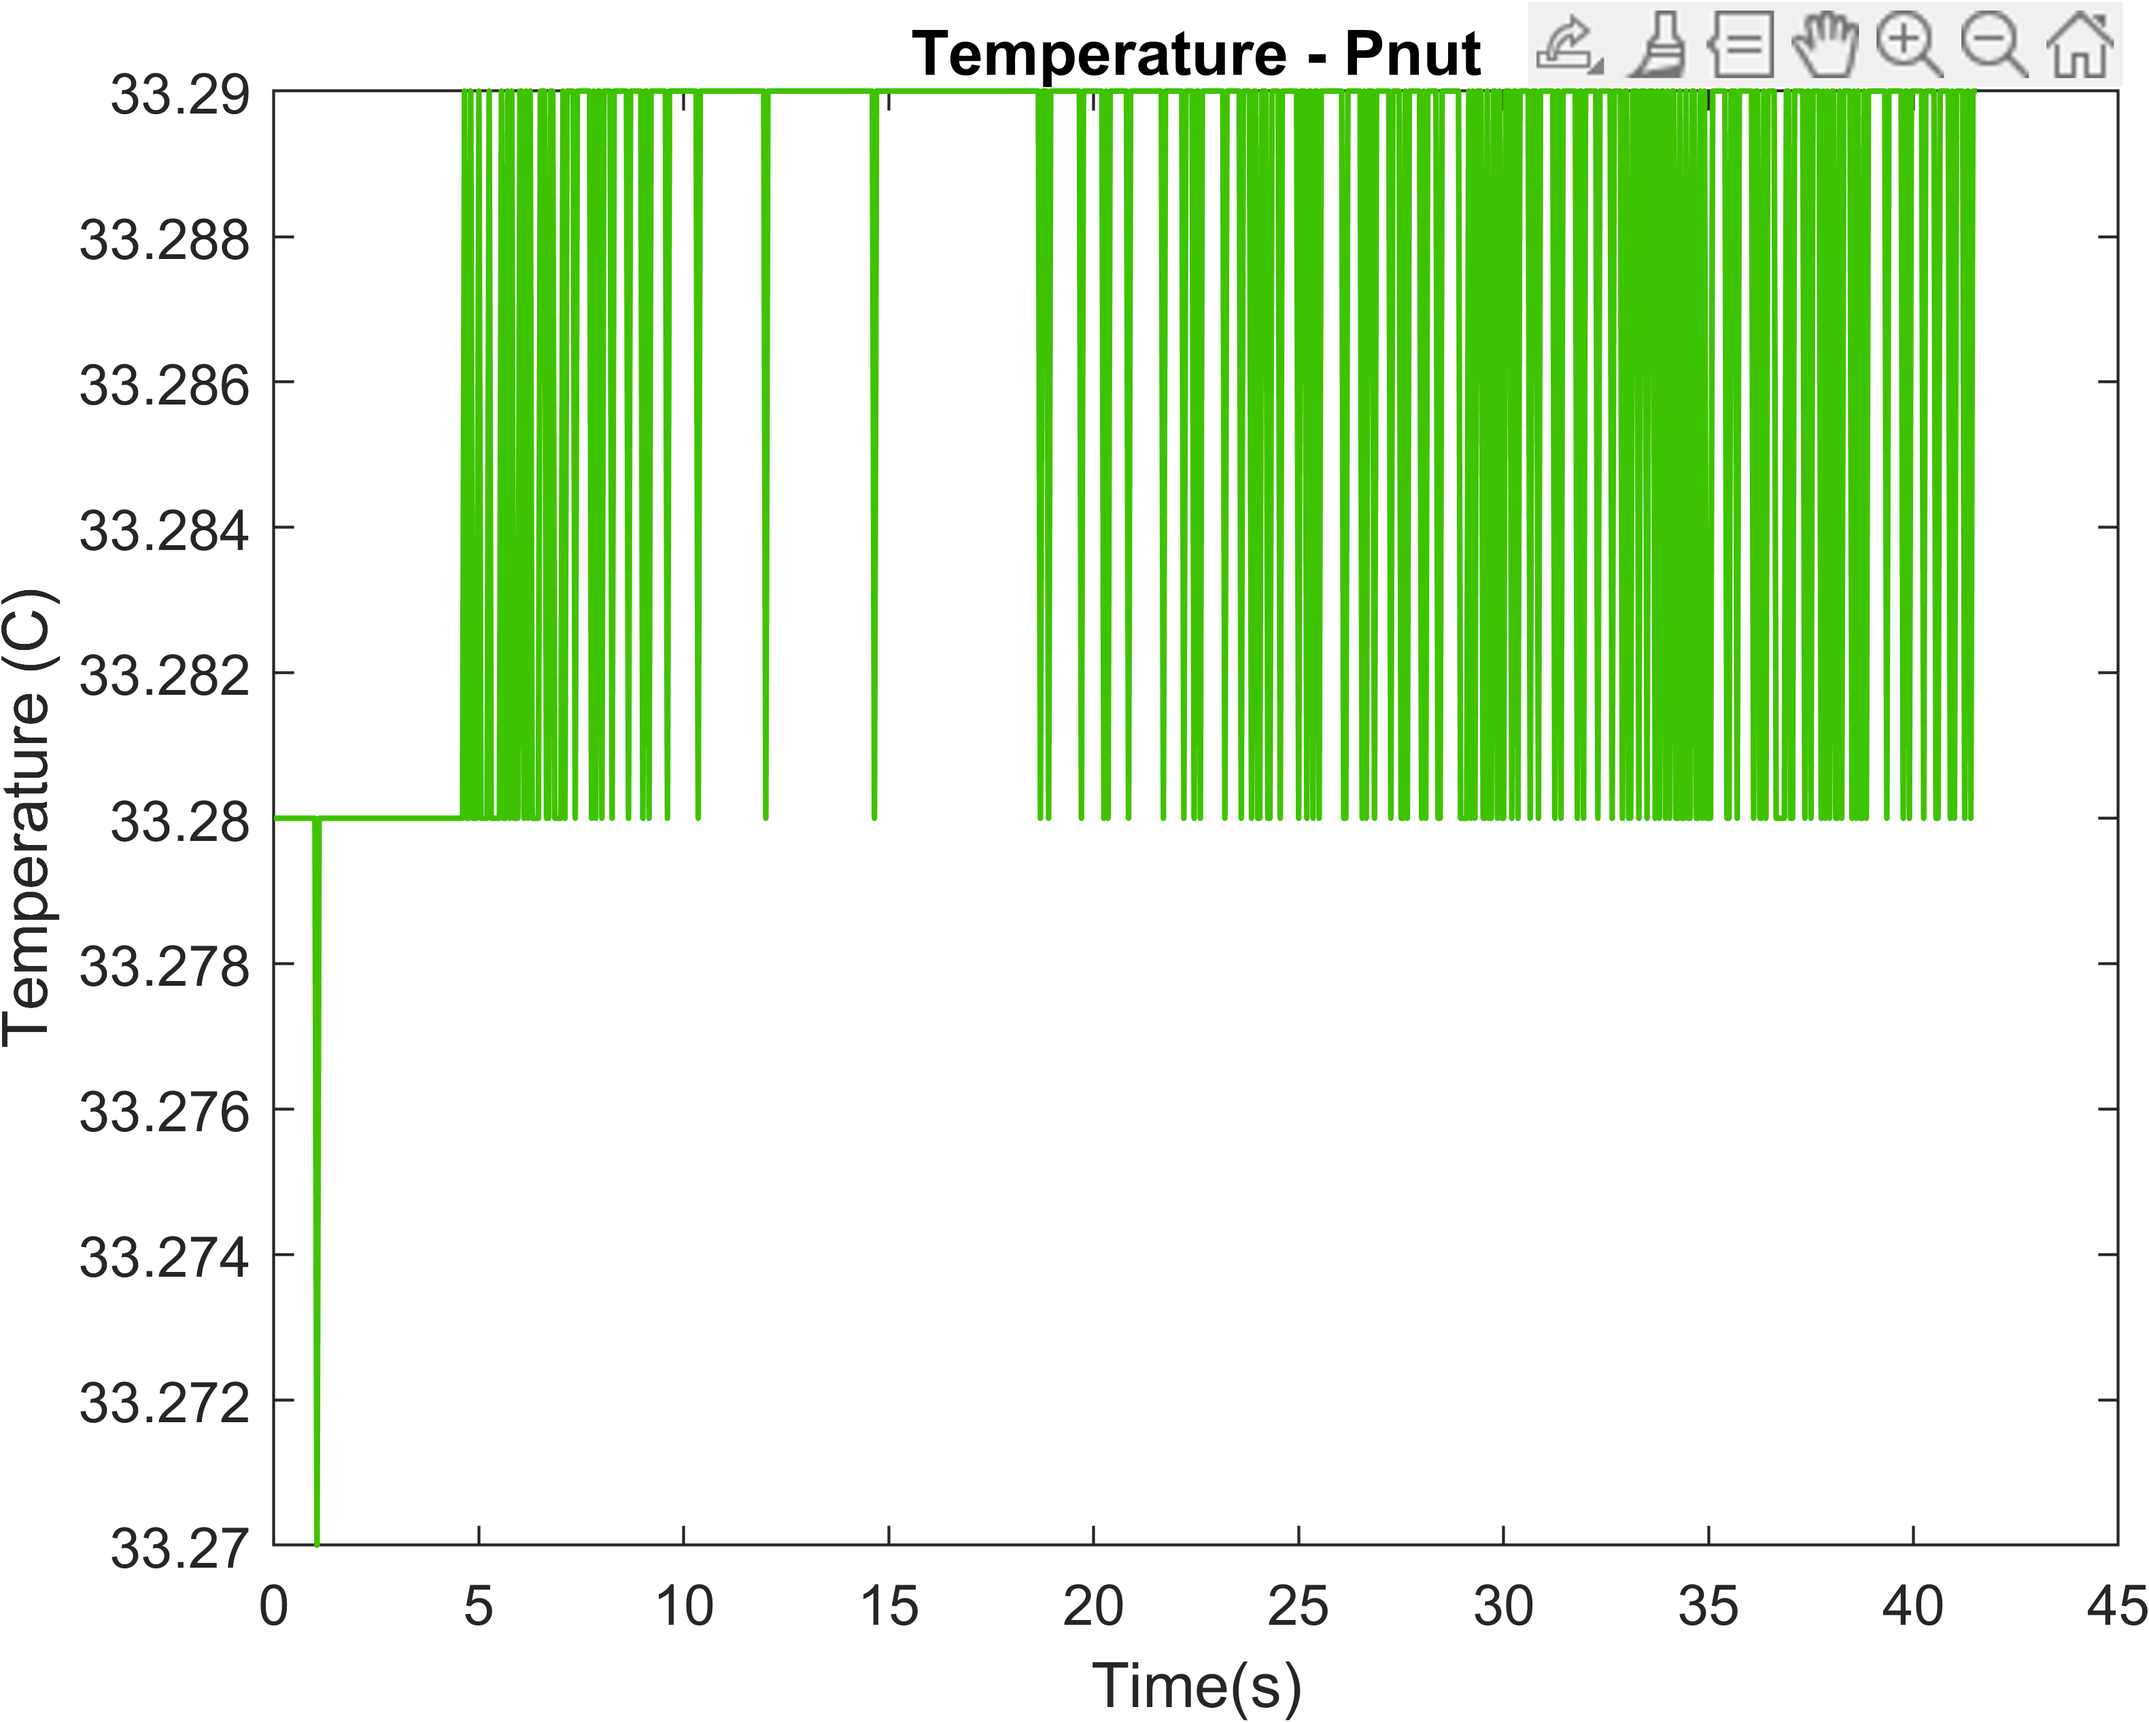
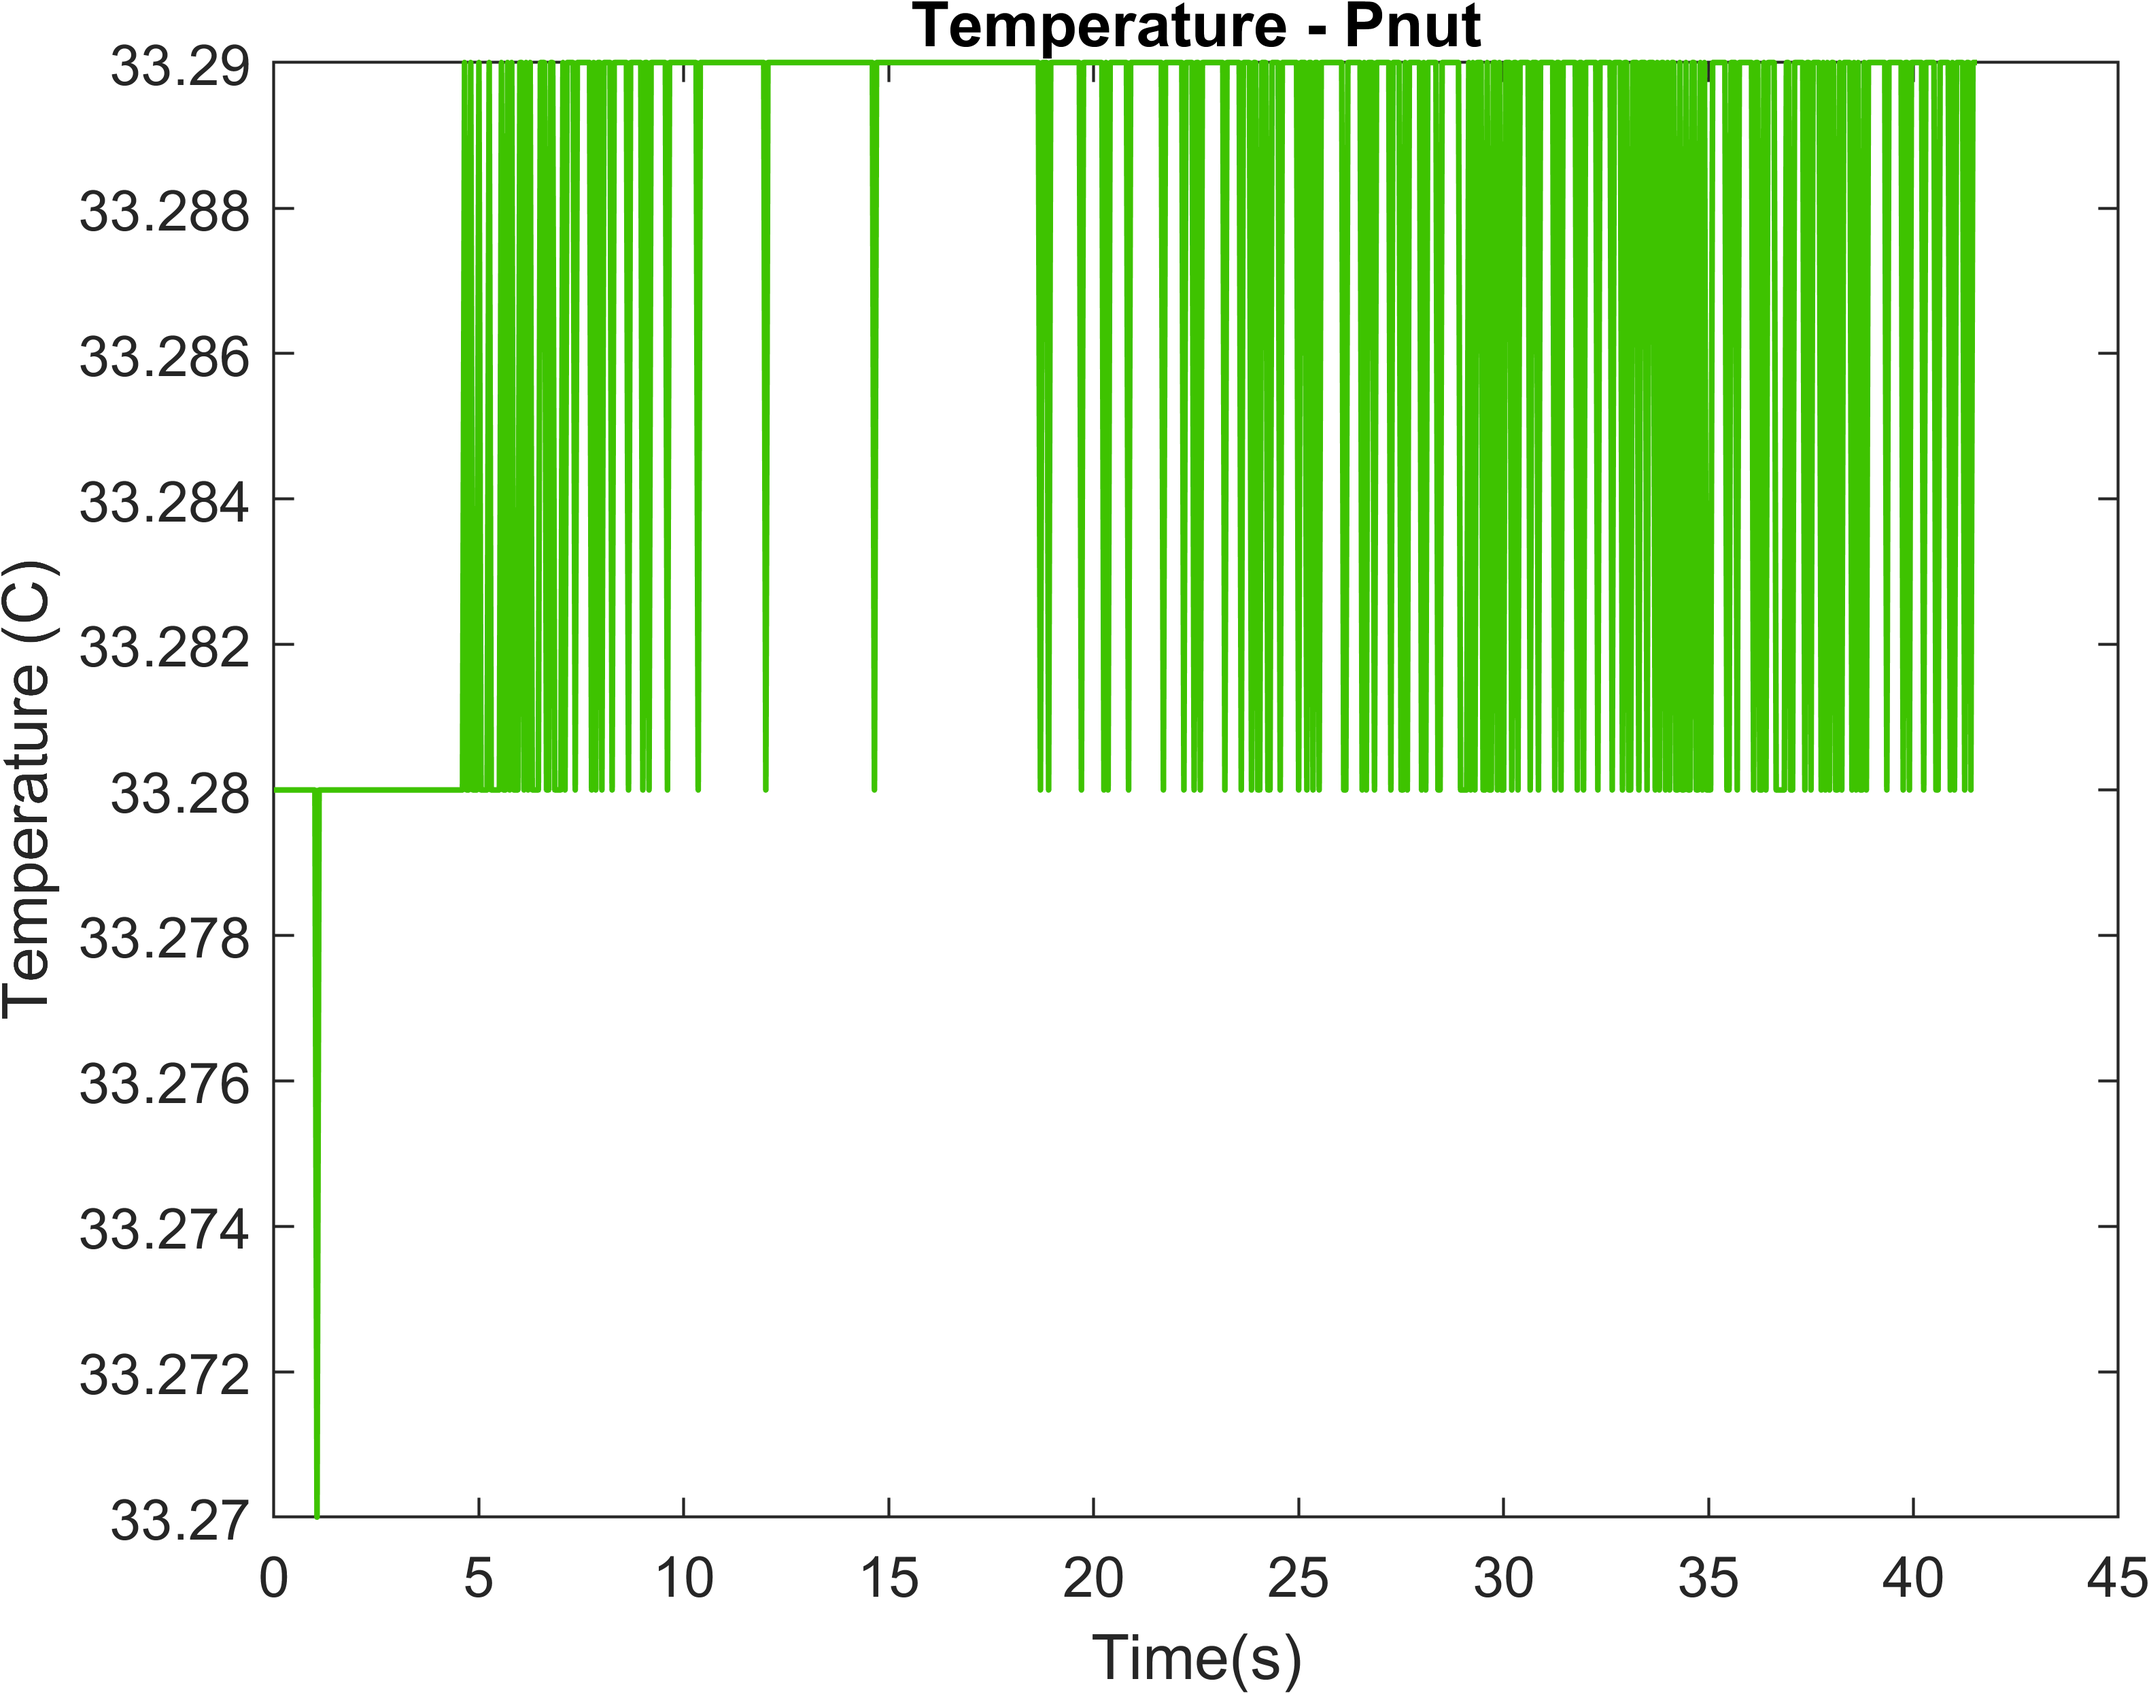
redo comparison plots

diff --git a/data_processing/astra.m b/data_processing/astra.m
@@ -82,7 +82,8 @@ ylabel('Pressure (Pa)')
 xlim([275 325])
 exportgraphics(gcf, sprintf('%s_pressure.png', launch), 'Resolution', 600);
 
-inp = input('Run ASTRA MkII Cleaner?');
+% inp = input('Run ASTRA MkII Cleaner?');
+inp = true;
 
 if inp == true
     
@@ -229,7 +230,9 @@ OR_alt = OR(:,2);
 OR_vel = OR(:,3);
 OR_acc = OR(:,4);
 
-inp = input('Run ASTRA MkII PNut comparison?');
+% inp = input('Run ASTRA MkII PNut comparison?');
+
+inp = true;
 
 if inp == true
     
@@ -292,4 +295,4 @@ if inp == true
     
 end
 
-
+close all
